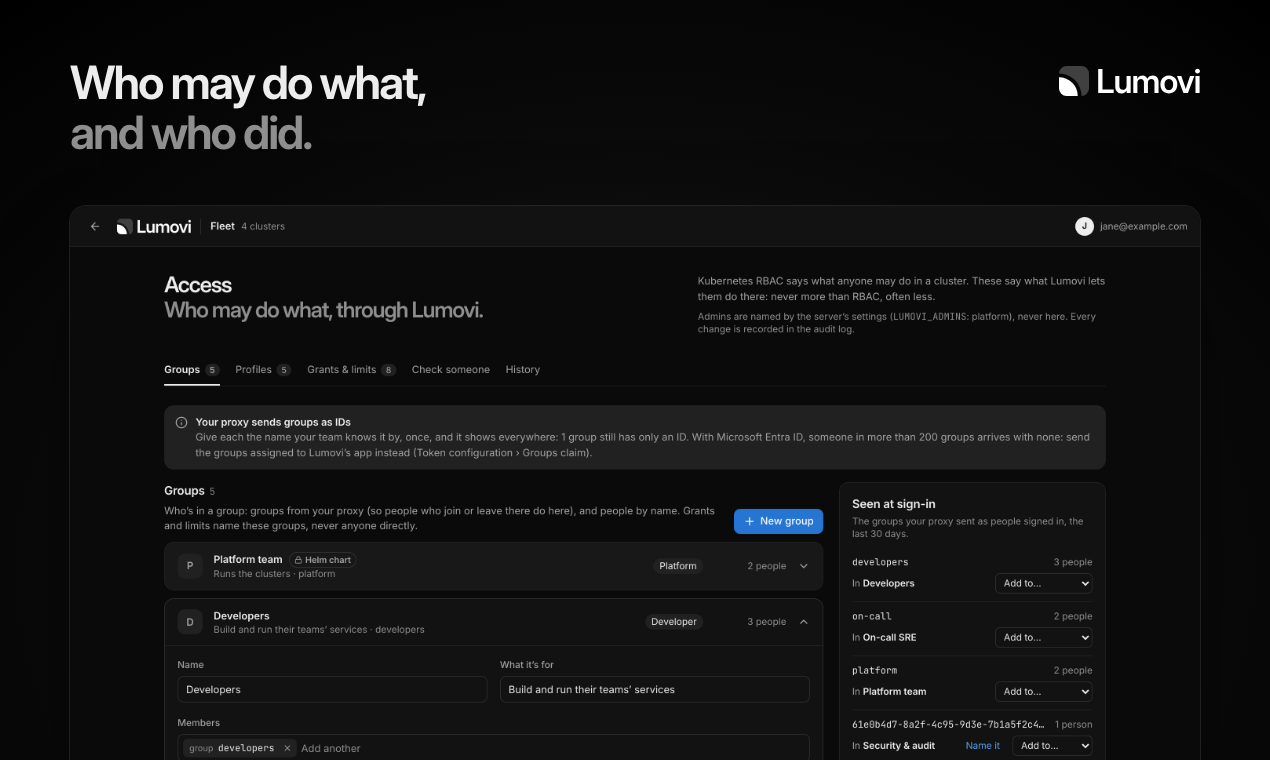
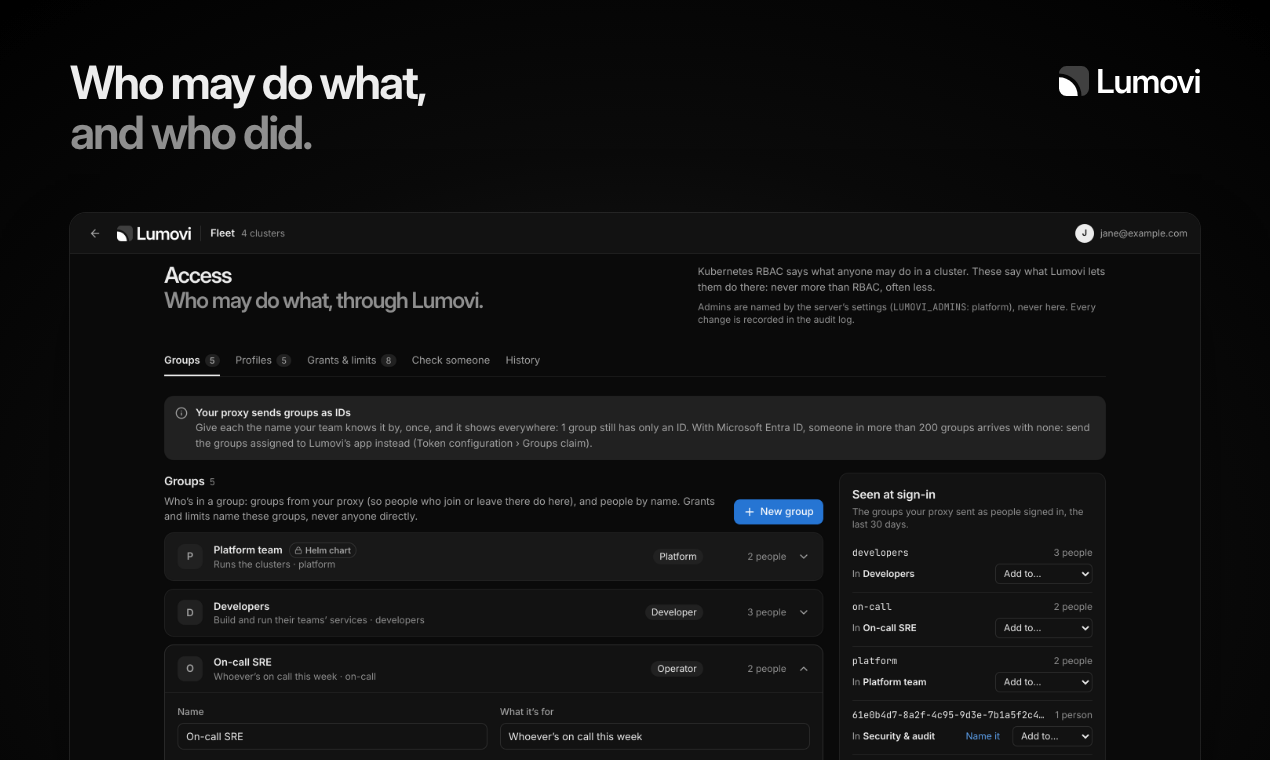
fix(social): Product Hunt's access image sits where the other four do
The window's top was 7 px higher than in images 1 to 4, to keep a row of
chips whole. It's now at the same place, from a capture of the Access page
with On-call SRE open, whose rows end clear of the image's bottom edge.

Fixes LMV-138

diff --git a/src/launch.ts b/src/launch.ts
@@ -97,10 +97,10 @@ export interface Shot {
   /** The headline over it: the website's, for the same part of the app. */
   title: [string, string]
   /**
-   * Where the window's top is, when not at 213: the window runs off the bottom of the image,
-   * and this puts that edge between two of the screen's rows, not through one's text.
+   * Its capture's name, where the gallery has one of its own: the screen in a state whose rows
+   * end clear of the image's bottom edge, which cuts the window 697 px down.
    */
-  top?: number
+  capture?: string
 }
 
 /** Product Hunt's gallery, in order: the app's screens, each with what it shows. */
@@ -109,7 +109,11 @@ export const gallery: Shot[] = [
   { screen: 'workloads', title: ['Made for the day something breaks.', 'Calm on all the others.'] },
   { screen: 'map', title: ['See what it’s connected to.', 'And what’s missing.'] },
   { screen: 'assistant-approval', title: ['Your assistant,', 'with you in charge.'] },
-  { screen: 'access', title: ['Who may do what,', 'and who did.'], top: 206 },
+  {
+    screen: 'access',
+    title: ['Who may do what,', 'and who did.'],
+    capture: 'access-gallery',
+  },
 ]
 
 /** The pictures the art is made from, for npm run sources to fetch. */
@@ -131,8 +135,8 @@ export const sources = {
   // The gallery's screens in both themes: Lumovi-marketing names them <screen>-<theme>.png.
   captures: gallery.flatMap((s) =>
     (['dark', 'light'] as const).map((theme) => ({
-      capture: `${s.screen}-${theme}.png`,
-      file: `captures/${s.screen}-${theme}.webp`,
+      capture: `${s.capture ?? s.screen}-${theme}.png`,
+      file: `captures/${s.capture ?? s.screen}-${theme}.webp`,
     })),
   ),
 }
@@ -240,7 +244,7 @@ export function thumbnail(v: Video, theme: Theme): string {
 export function galleryImage(s: Shot, theme: Theme): string {
   const W = 1270
   const H = 760
-  const top = s.top ?? 213
+  const top = 213
   const box = { x: 70, y: top, width: W - 140, height: H - top }
   return page(
     W,
@@ -254,7 +258,7 @@ export function galleryImage(s: Shot, theme: Theme): string {
     .window { left: ${box.x}px; top: ${box.y}px; width: ${box.width}px; height: ${box.height + 40}px; border-radius: 16px; }`,
     `<div class="copy"><h1>${headline(s.title, theme)}</h1></div>
     <div class="logo">${logo(theme, 30)}</div>
-    <div class="window">${cropped(source(`captures/${s.screen}-${theme}.webp`), SCREENSHOT, { x: 0, y: 0, ...SCREENSHOT }, box.width, (box.width * SCREENSHOT.height) / SCREENSHOT.width)}</div>`,
+    <div class="window">${cropped(source(`captures/${s.capture ?? s.screen}-${theme}.webp`), SCREENSHOT, { x: 0, y: 0, ...SCREENSHOT }, box.width, (box.width * SCREENSHOT.height) / SCREENSHOT.width)}</div>`,
   )
 }
 
